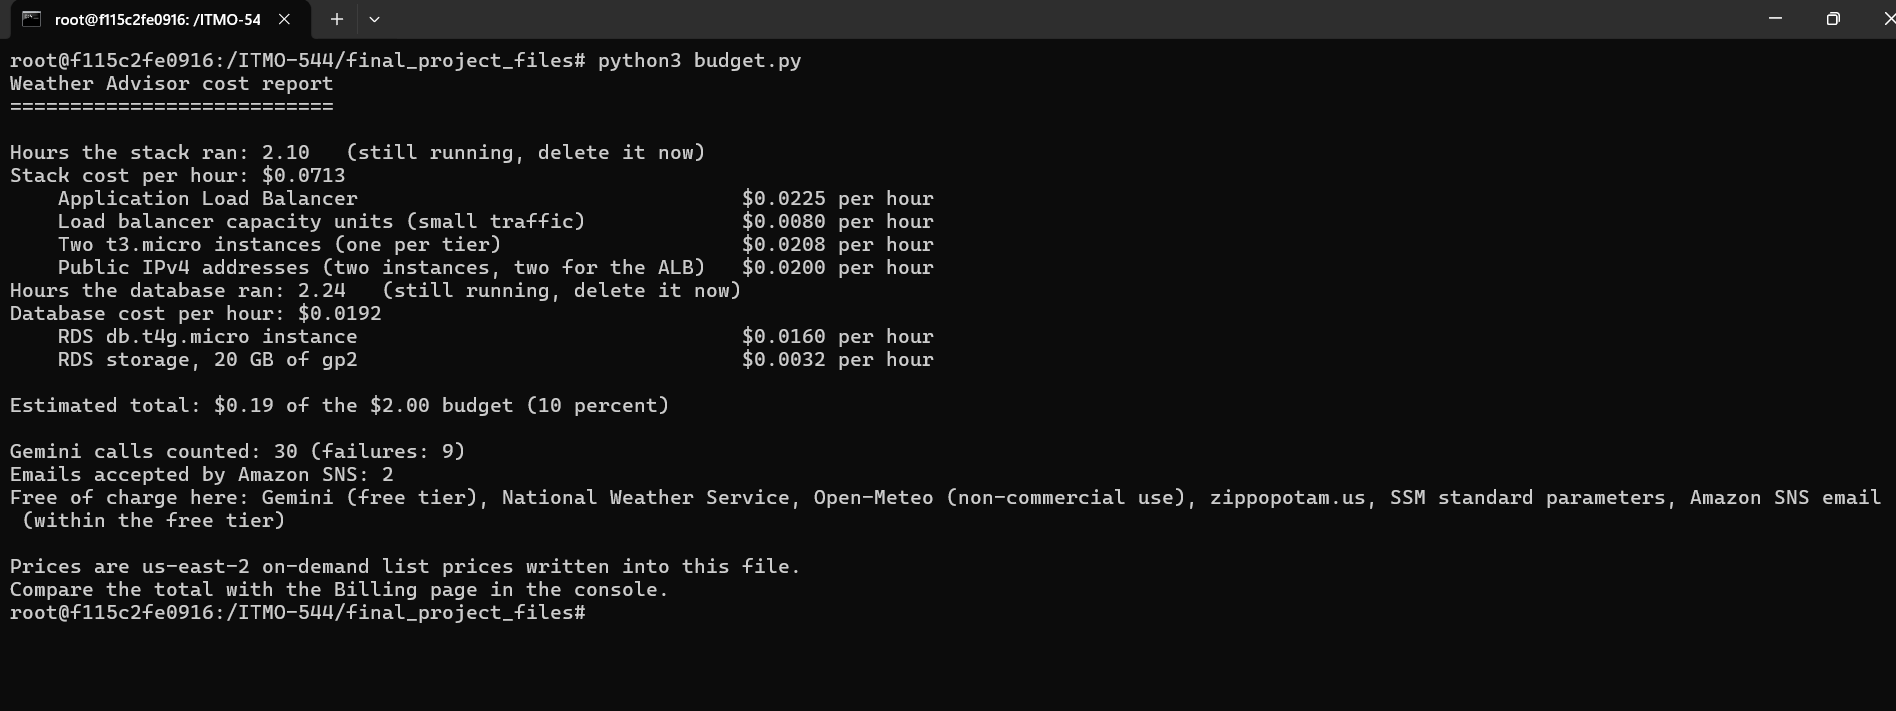
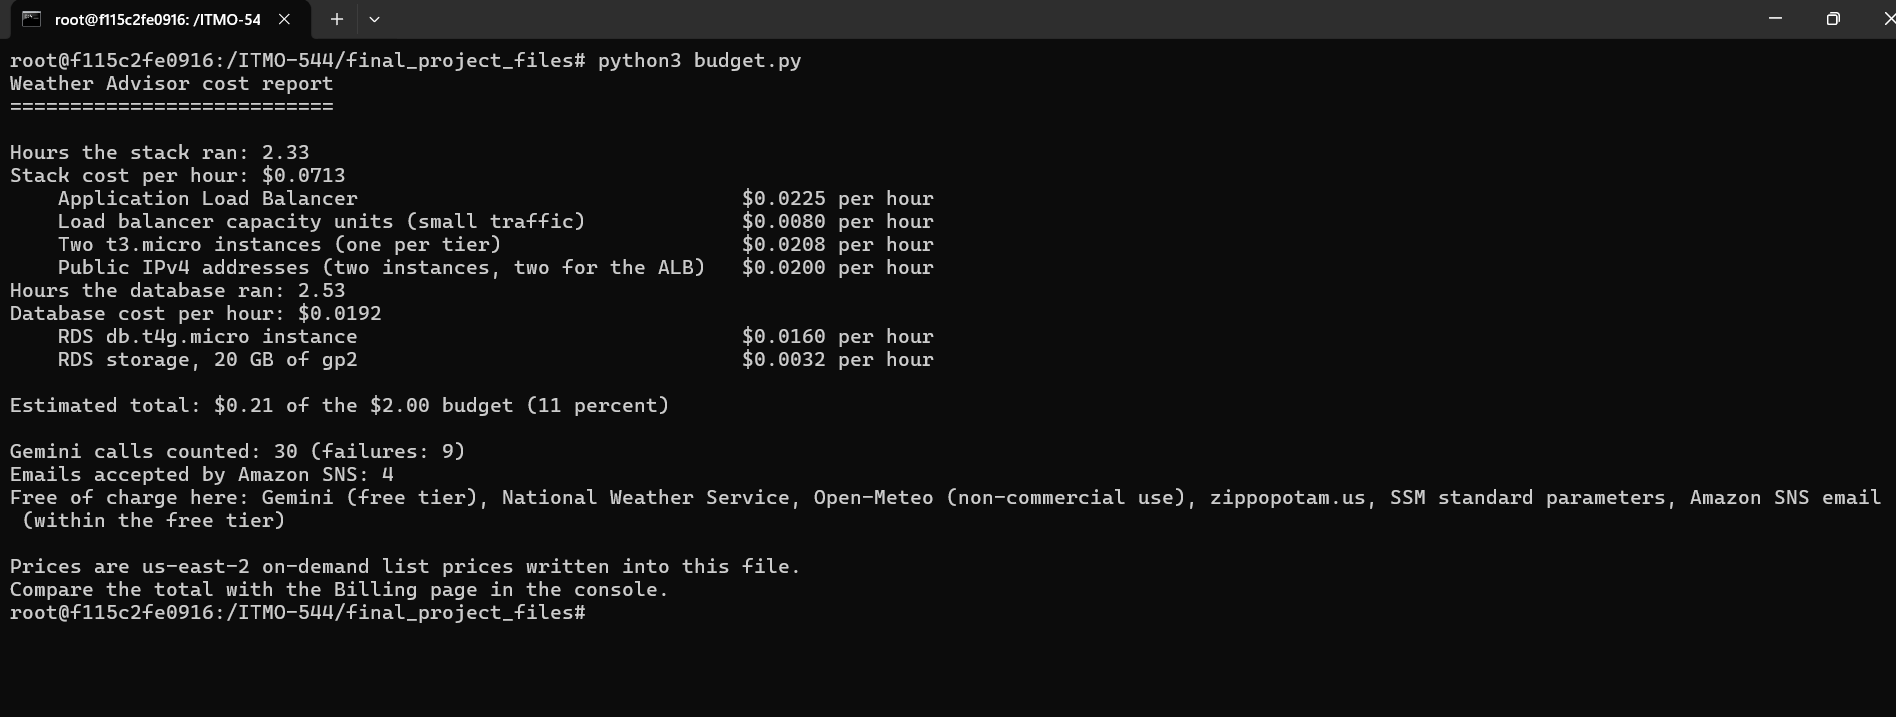
Fix report md

diff --git a/final_project_files/Final Project.md b/final_project_files/Final Project.md
@@ -292,7 +292,7 @@ A period has six hours of forecast. One value or a short range is shown for each
 
 ![Smoke test](./images/smoke_test.png)
 ![Integration](./images/integration1.png)
-![Integration](./images/integration.2png)
+![Integration](./images/integration2.png)
 
 | Measure | Target | Measured |
 |---|---|---|
@@ -301,9 +301,6 @@ A period has six hours of forecast. One value or a short range is shown for each
 
 ### 5.3 Chaos tests
 
-```
-python3 -m pytest -m chaos -v -s
-```
 ![Chaos test](./images/chaos_test.png)
 
 ### 5.4 Email inboxes
@@ -325,11 +322,9 @@ python3 -m pytest -m chaos -v -s
 
 ![Budget](./images/budget.png)
 
-*(Write one sentence: the total hours, the total cost, and that it is under the $2.00 budget.)*
-
 ---
 
-## 8. Reflection
+## 7. Reflection
 
 ### What would change at ten times the traffic
 
